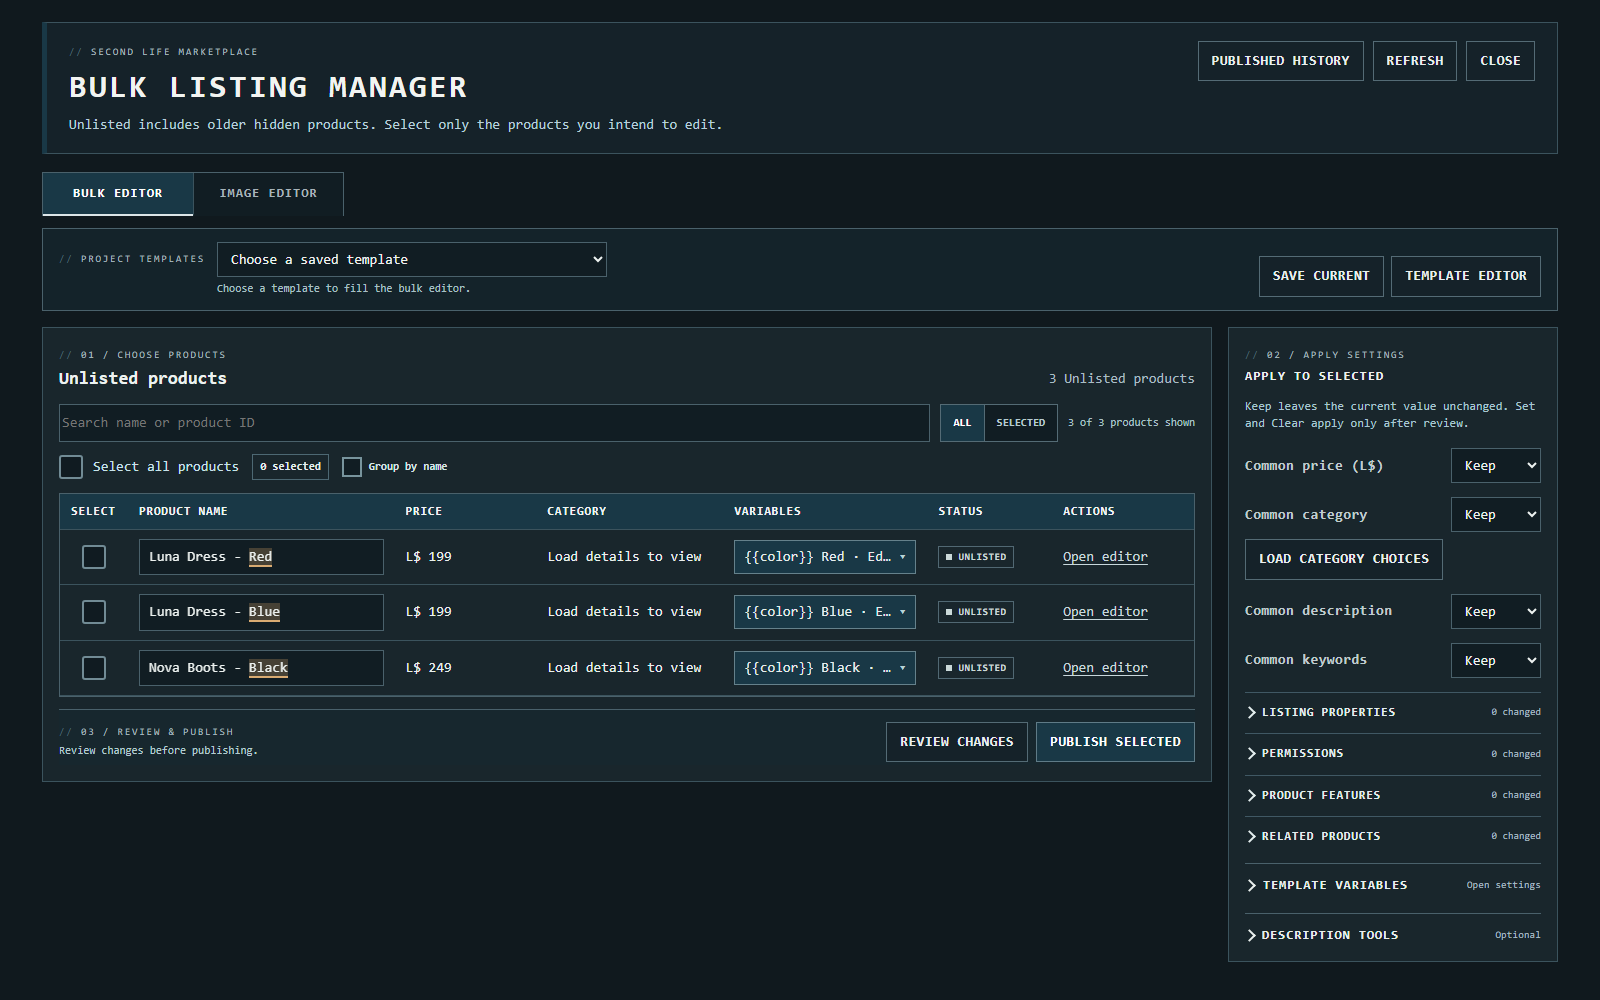
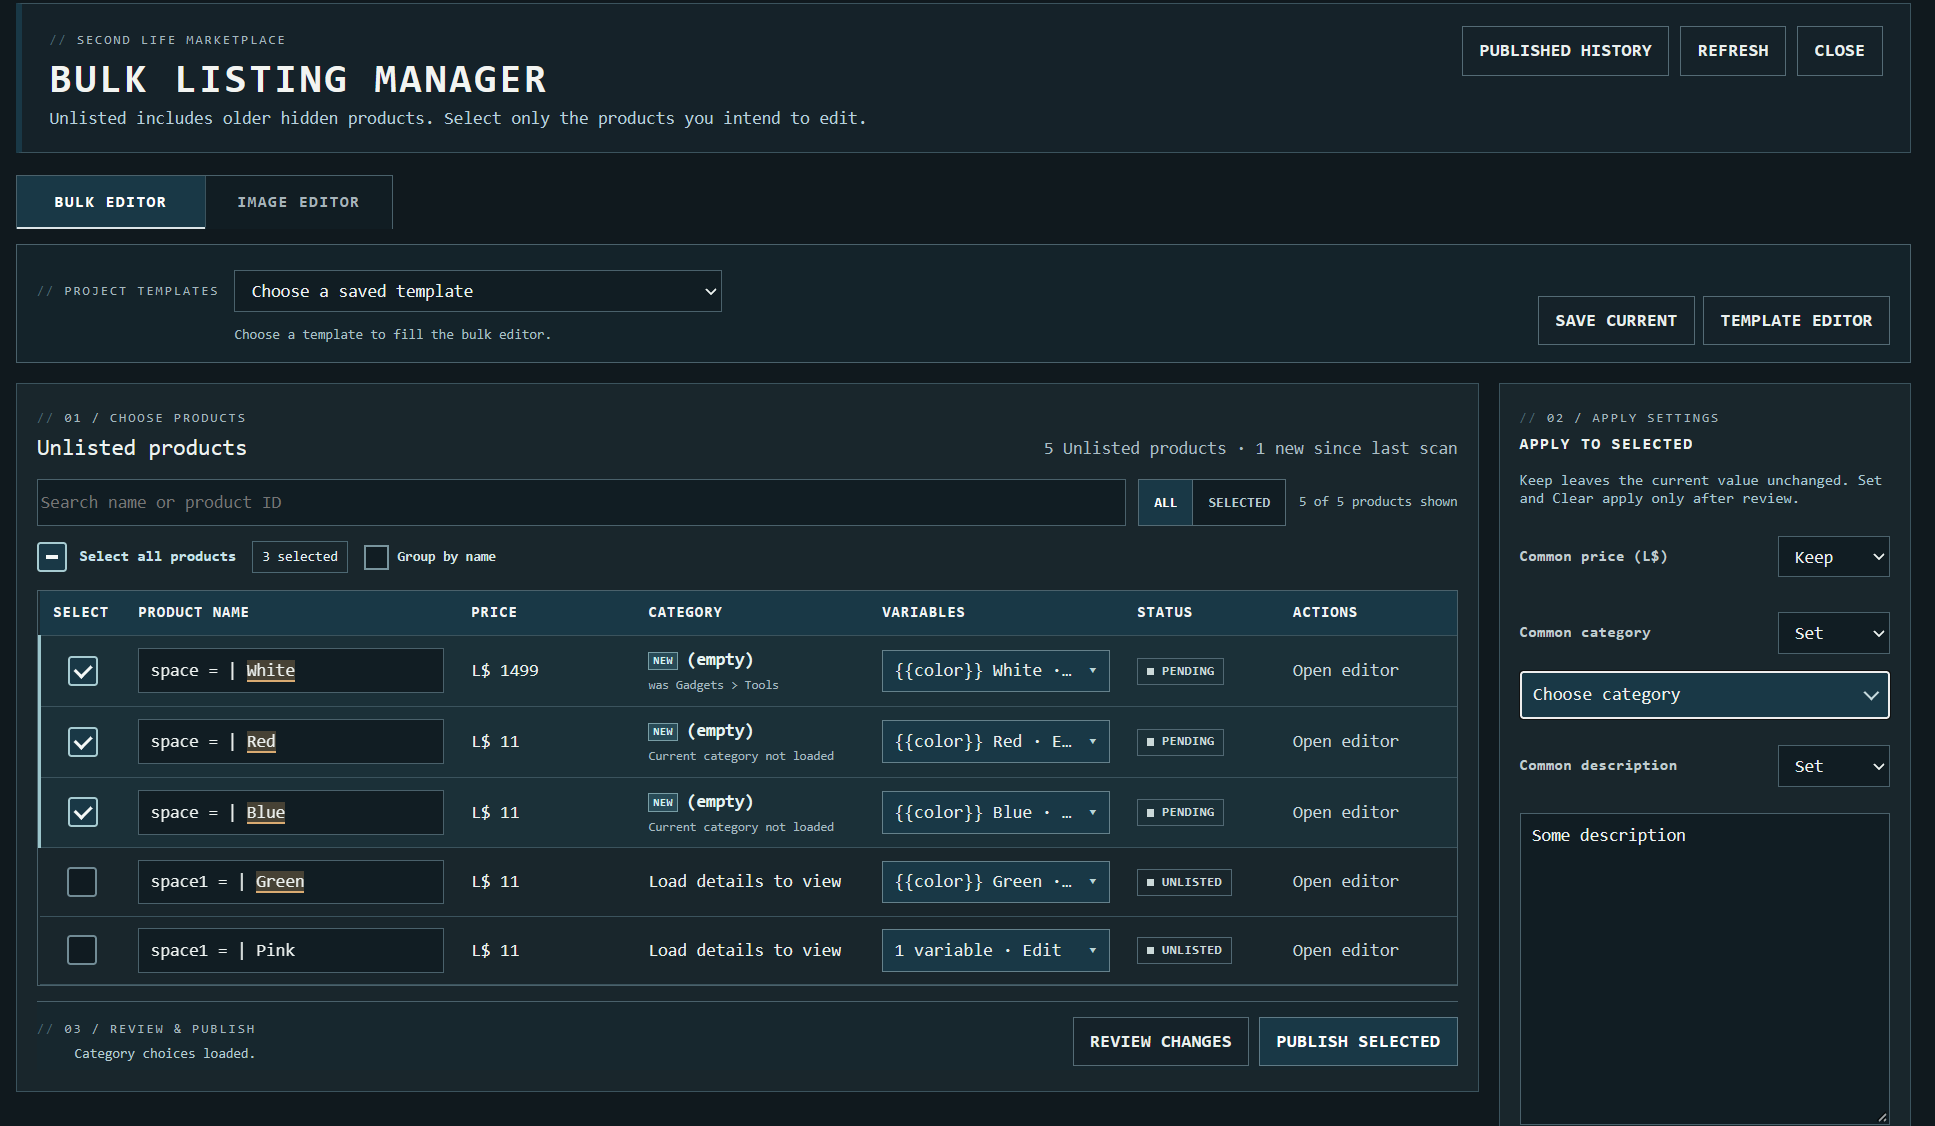
some changes

diff --git a/README.md b/README.md
@@ -41,6 +41,6 @@ Listora Studio is a Chrome extension for sellers who edit Second Life Marketplac
 
 [Tips and workflows](tips-and-workflows.md) · [Troubleshooting](troubleshooting.md) · [FAQ](faq.md)
 
-Screenshots show demonstration products from version 0.2.0. Names, categories and available Marketplace actions can differ in your store. The screenshot collection currently covers activation, Studio and Bulk Editor. Other chapters contain clearly marked placeholders; the [screenshot checklist](images/README.md) records what to add later.
+Screenshots show examples from version 0.2.0. Names, categories and available Marketplace actions can differ in your store. All chapters except Quick Fill have a screenshot; the [screenshot checklist](images/README.md) records the remaining capture.
 
 Need a license? The direct official product link is pending confirmation. See [license activation](license-activation.md) if you already have a key.

diff --git a/bulk-image-editor.md b/bulk-image-editor.md
@@ -4,7 +4,9 @@
 
 Open **Bulk Editor** on **Manage Listings**, then switch from **Bulk Editor** to **Image Editor**. This view shows products, their current Marketplace images and local upload queues.
 
-> **Screenshot placeholder:** Image Editor overview with the product list, upload target and review queue (`images/bulk-image-editor.png`). The queue may be empty in an overview capture.
+![Bulk Image Editor with product list, upload target and queued images](images/bulk-image-editor.png)
+
+*Select the upload target, inspect the queue and check images already on Marketplace.*
 
 1. Search for a product and click its row, or check several products to receive the same added files.
 2. Use **Choose files for target** to add files to the checked products, or **Match by filename** to assign each file to a product with a matching name. For an **Unmatched file**, choose the intended product and click **Assign**, or **Skip** it.

diff --git a/review-publishing.md b/review-publishing.md
@@ -4,7 +4,9 @@
 
 In Bulk Editor, **Review changes** compares each selected product's current Marketplace values with the local draft, including expanded variables and missing required fields. The lower **Publish Selected** button also opens this review; it does not bypass it.
 
-> **Screenshot placeholder:** Review changes panel comparing one demonstration product before and after (`images/review-publishing.png`).
+![Review changes panel comparing product names before and after editing](images/review-publishing.png)
+
+*The review compares current values with proposed changes before saving or publishing.*
 
 1. Check the selected product list and every proposed field, including names, price, category, permissions, features and Demo Item changes.
 2. Resolve warnings. If Marketplace data changed since the draft was loaded, rerun the review instead of forcing an older value over it.

diff --git a/publishing-history.md b/publishing-history.md
@@ -4,7 +4,9 @@
 
 Click **Published history** in Bulk Editor to see locally saved records of products published through the extension. Records include the saved state and variables used for that product. Use **Open editor** to inspect a product on Marketplace.
 
-> **Screenshot placeholder:** Published history with a demonstration product and its saved variables (`images/publishing-history.png`).
+![Published history with saved products and color variable values](images/publishing-history.png)
+
+*The local history lists saved products and the variable values used for them.*
 
 The history is scoped to the current merchant and Chrome profile. It stores the latest record for a product, so publishing it again replaces the prior record. It is not a complete Marketplace audit log and does not include changes made elsewhere.
 

diff --git a/languages-translation.md b/languages-translation.md
@@ -4,7 +4,9 @@
 
 Open **Languages** in the single-product Studio. Choose a language tab to edit the Marketplace fields for **Japanese**, **German**, **French**, **Portuguese** or **Spanish**. Each language has its own title, five features, description and keywords when those native fields exist.
 
-> **Screenshot placeholder:** Languages tab with one demonstration translation and the translation controls (`images/languages-translation.png`).
+![Languages tab with Japanese text and completed translation status](images/languages-translation.png)
+
+*The Languages tab shows the translation controls and a Japanese example.*
 
 1. Fill the English content on **Content** first.
 2. Open **Languages** and select a locale. You can type localized text directly.

diff --git a/dynamic-variables.md b/dynamic-variables.md
@@ -4,7 +4,13 @@
 
 In **Bulk Editor → Template variables**, write `{{variable}}` in a name, description, keyword or product feature draft. The preview shows each product's resulting text before you save or publish.
 
-> **Screenshot placeholder:** Template variables and per-product value preview with demonstration listings (`images/dynamic-variables.png`).
+![Template variables settings with automatic and custom variables](images/dynamic-variables.png)
+
+*Template variables settings include automatic values and the custom `{{color}}` variable.*
+
+![Bulk Editor rows showing a color variable value for each product](images/bulk.png)
+
+*The Variables column shows each product's current `{{color}}` value.*
 
 | Variable | Value |
 | --- | --- |

diff --git a/image-tools.md b/image-tools.md
@@ -4,7 +4,9 @@
 
 Use **Media** on a product edit page to inspect images and reach Marketplace's upload controls. The single-listing image editor prepares a local image before you hand it to Marketplace's uploader.
 
-> **Screenshot placeholder:** Single-listing image editor showing a demonstration image and preparation controls (`images/image-tools.png`).
+![Single-listing image editor with image preview and preparation controls](images/image-tools.png)
+
+*The image editor previews a selected file before it is prepared for upload.*
 
 1. Open **Media**, click **Upload an image**, then click **Choose image** in the uploader.
 2. Select a PNG, JPEG or GIF. Review the preview and any size warnings.

diff --git a/project-templates.md b/project-templates.md
@@ -4,7 +4,9 @@
 
 A project template stores reusable Bulk Editor settings, including field modes, chosen values, properties and template variables. It does not save a Marketplace listing by itself.
 
-> **Screenshot placeholder:** Template editor with a demonstration collection template (`images/project-templates.png`).
+![Project template editor with a saved Jeans template and filled listing fields](images/project-templates.png)
+
+*A saved template contains a name pattern, price, category and description.*
 
 ## Save and reuse
 

diff --git a/description-tools.md b/description-tools.md
@@ -4,7 +4,9 @@
 
 Open **Bulk Editor → Description tools** when several selected listings need a shared text change. Empty fields do nothing.
 
-> **Screenshot placeholder:** Description tools with a demonstration text change and preview (`images/description-tools.png`).
+![Description tools with text to add before and after a product description](images/description-tools.png)
+
+*These fields prepare shared text changes. The resulting text is checked in Review changes.*
 
 | Control | Action |
 | --- | --- |
